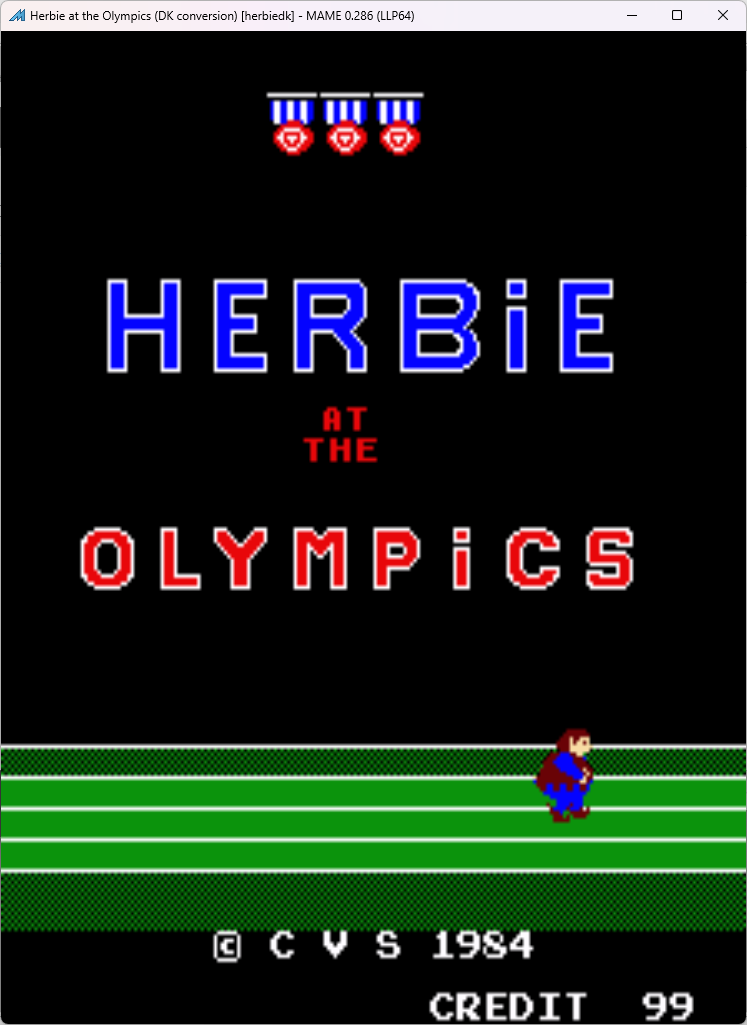
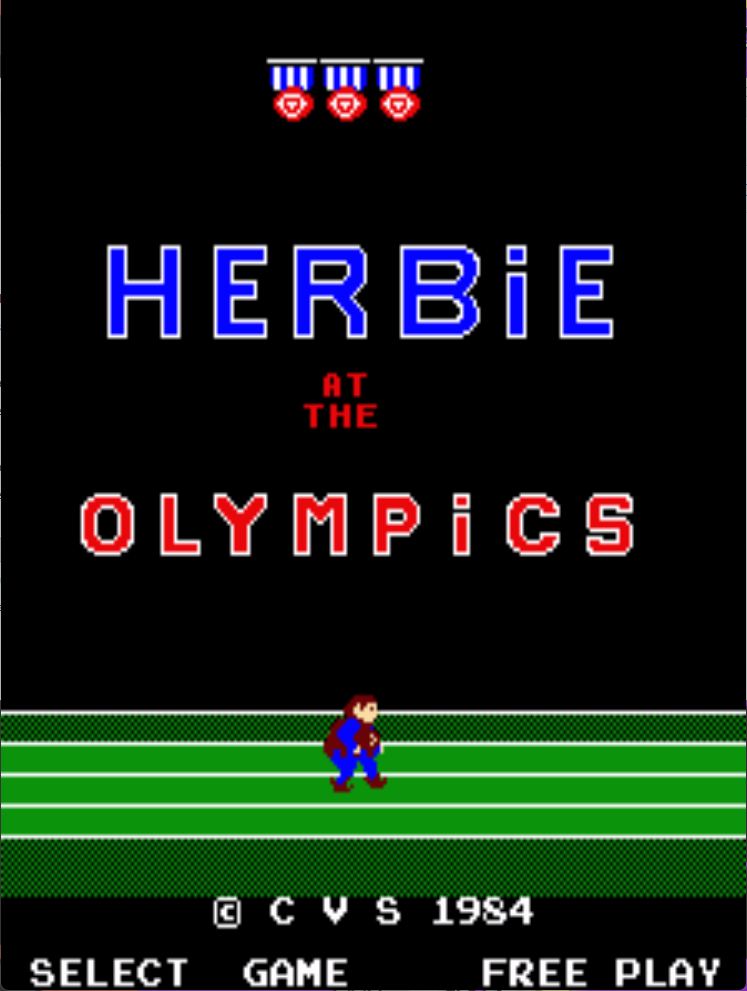
Replaced "Credit 99" with "Free Play"

diff --git a/Seatongrove/Herbie at the Olympics/README.md b/Seatongrove/Herbie at the Olympics/README.md
@@ -13,12 +13,20 @@ This is a freeplay with attract mod for Herbie at the Olympics, a conversion kit
 |----------------------|----------|---------------------|-----------------|
 | 5k.cpu               |    4k    |       B1DCDE43      |      5K/5A      |
 | 5h.cpu               |    4k    |       3AA0DC49      |      5H/5B      |
-| 5g.cpu               |    4k    |       8F5A5F2F      |      5G/5C      |
-| 5f.cpu               |    4k    |       256A720F      |      5F/5E      |
+| 5g.cpu               |    4k    |       9673648E      |      5G/5C      |
+| 5f.cpu               |    4k    |       3E296CFB      |      5F/5E      |
 
 
 ## Modification Documentation
-To Do
+### Noteworthy Locations in Memory
+$1C55 - Coin Switch Mirror
+$1E50 - Credit Count
+
+### Modifications
+The methodology for the 2650 DK Kit Mods is very straight forward:
+- Return instead of printing the credit digits
+- Replace any load of the credit count with an immediate load of $99
+- Replace "Credit" text with "Free Play"
 
 ## Images
 ![Freeplay](Images/HFP_1.png)
